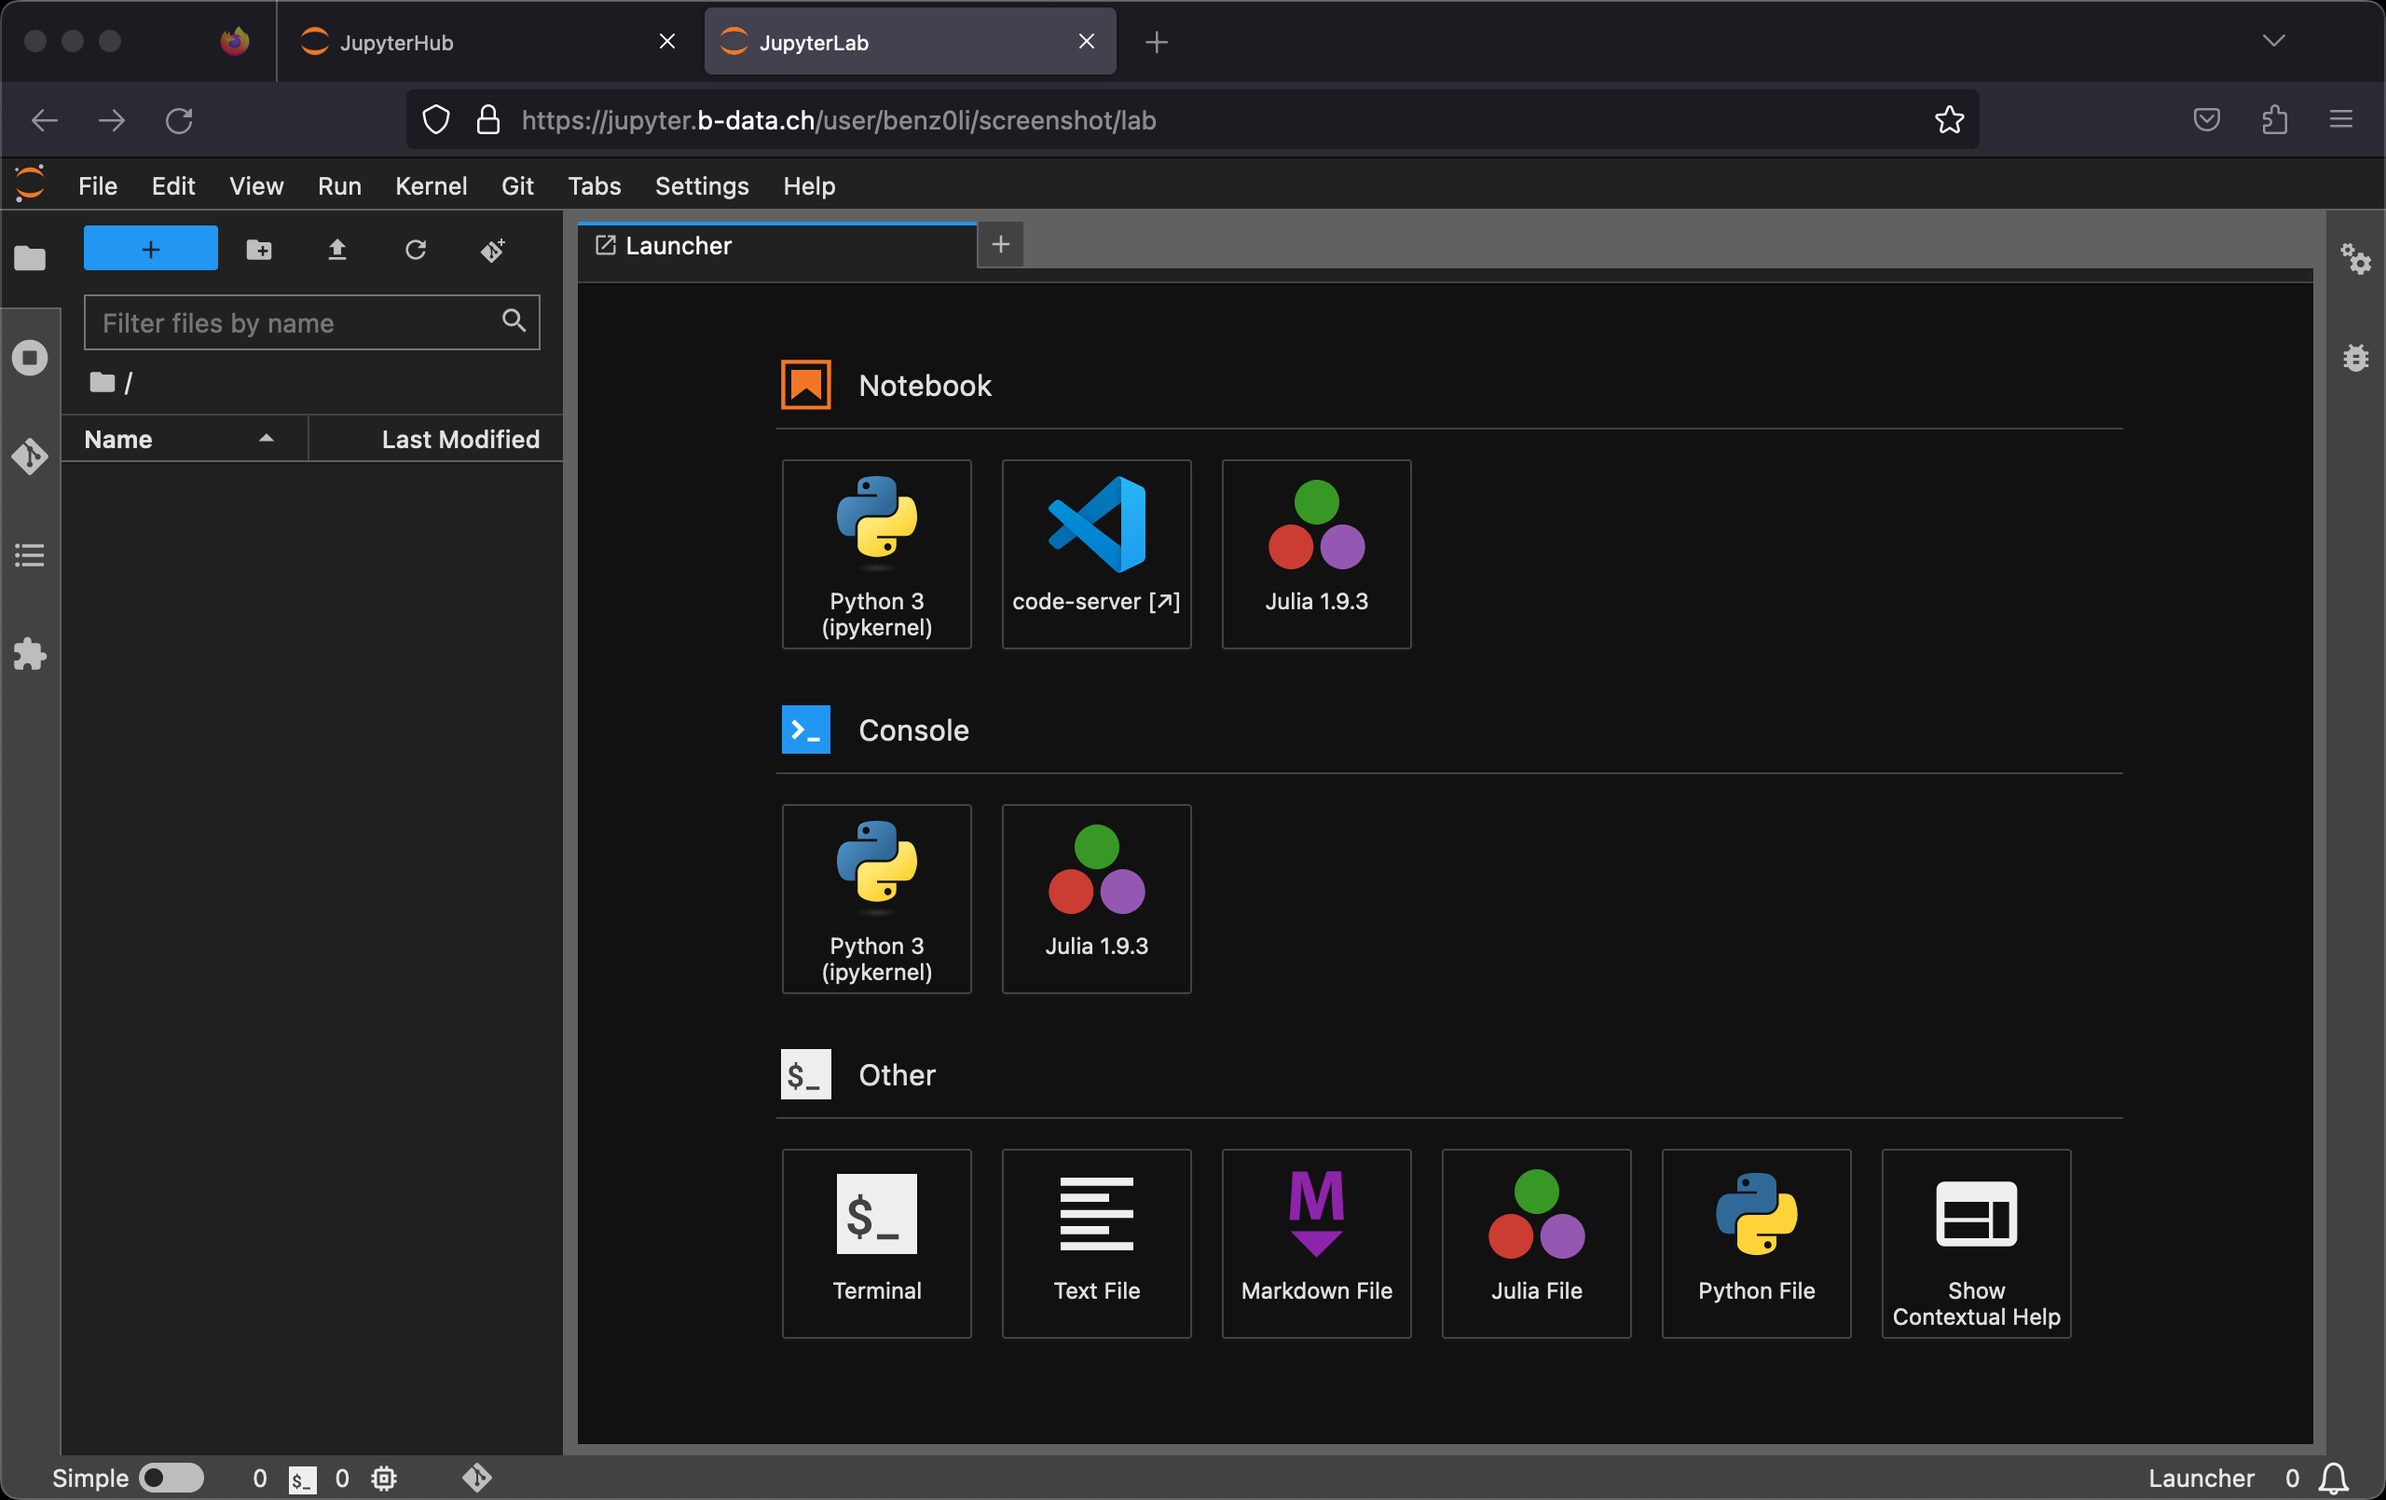
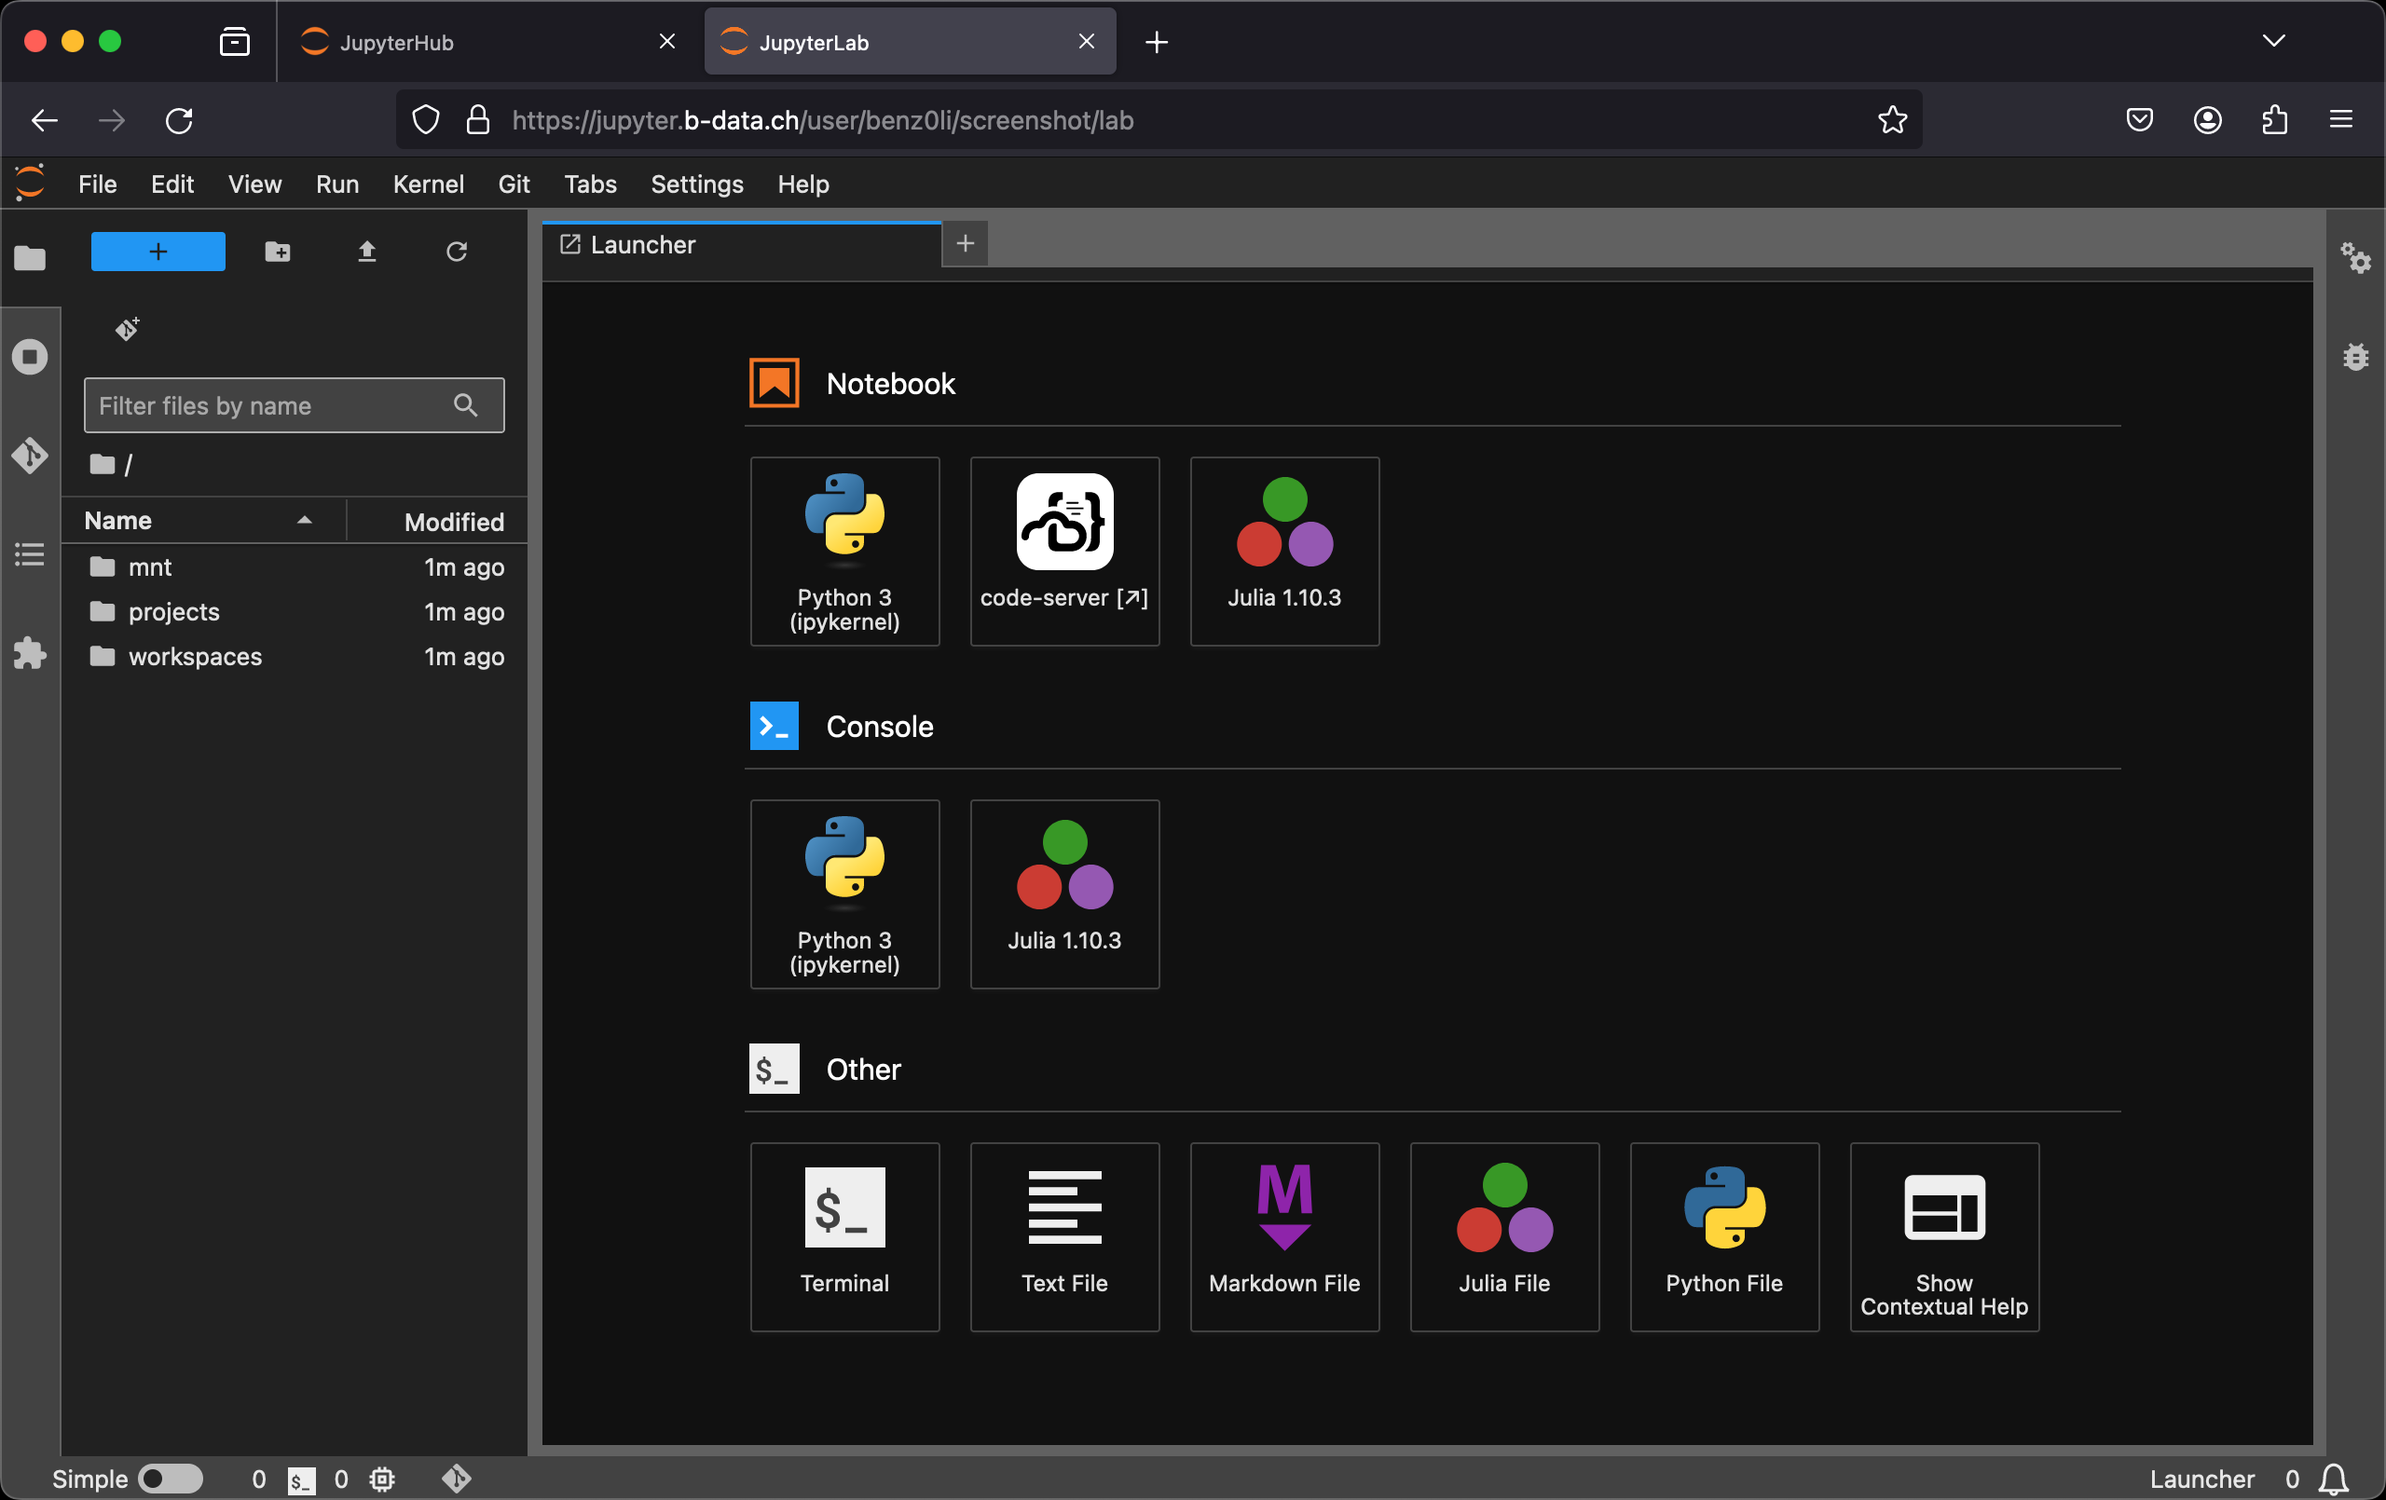
Update README.md
- Update screenshot

diff --git a/README.md b/README.md
@@ -28,8 +28,7 @@ base → pubtools
 
 * **JupyterLab**: A web-based interactive development environment for Jupyter
   notebooks, code, and data. The images include
-  * **code-server**: VS Code in the browser without MS
-    branding/telemetry/licensing.
+  * **code-server**: `Code - OSS` in the browser.
   * **Git**: A distributed version-control system for tracking changes in source
     code.
   * **Git LFS**: A Git extension for versioning large files.
@@ -56,7 +55,7 @@ The following extensions are pre-installed for **code-server**:
   :information_source: devtools subtags
 * [Docker](https://open-vsx.org/extension/ms-azuretools/vscode-docker)  
   :information_source: docker subtags
-* [EditorConfig for VS Code](https://open-vsx.org/extension/EditorConfig/EditorConfig)
+* [EditorConfig](https://open-vsx.org/extension/EditorConfig/EditorConfig)
   (1.8.5+)
 * [ESLint](https://open-vsx.org/extension/dbaeumer/vscode-eslint)  
   :information_source: devtools subtags
@@ -276,7 +275,7 @@ What makes this project different:
    :information_source: CUDA-enabled images are Ubuntu-based.
 1. IDE: [code-server](https://github.com/coder/code-server) next to
    [JupyterLab](https://github.com/jupyterlab/jupyterlab)  
-   :information_source: code-server = VS Code in the browser.
+   :information_source: code-server = `Code - OSS` in the browser.
 1. Just Python – no [Conda](https://github.com/conda/conda) /
    [Mamba](https://github.com/mamba-org/mamba)
 
@@ -284,7 +283,8 @@ See [Notes](NOTES.md) for tweaks, settings, etc.
 
 ## Contributing
 
-PRs accepted.
+PRs accepted. Please submit to the
+[GitLab repository](https://gitlab.com/b-data/jupyterlab/julia/docker-stack).
 
 This project follows the
 [Contributor Covenant](https://www.contributor-covenant.org)
